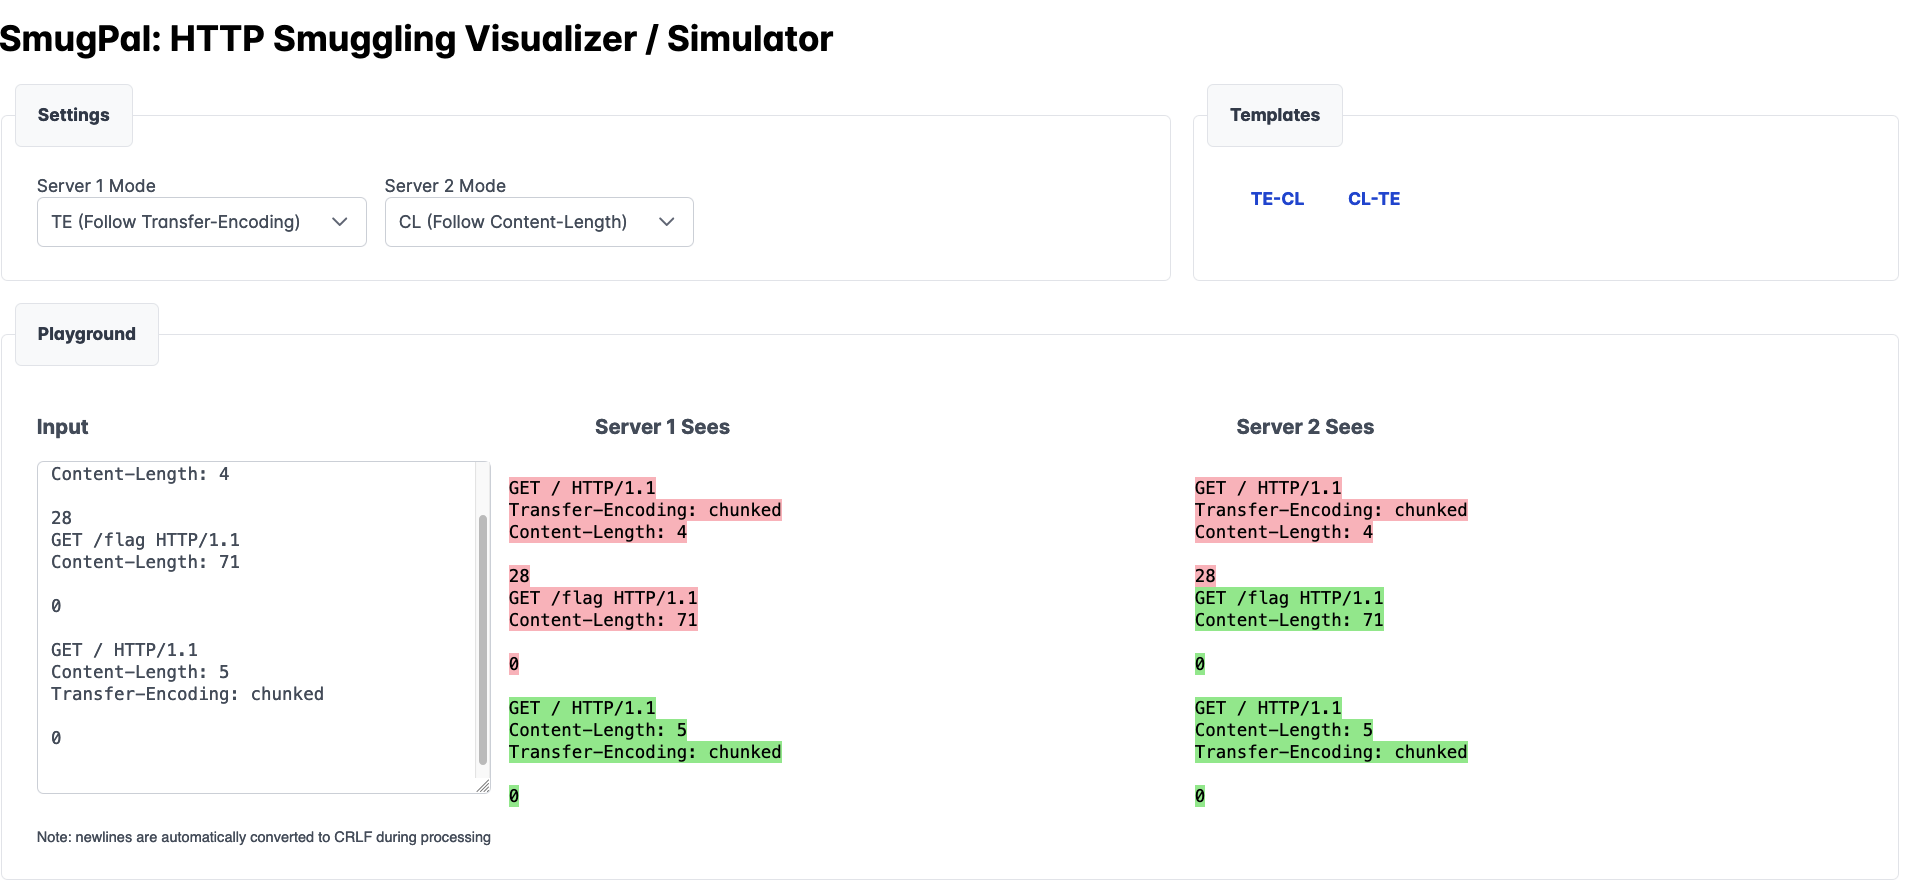
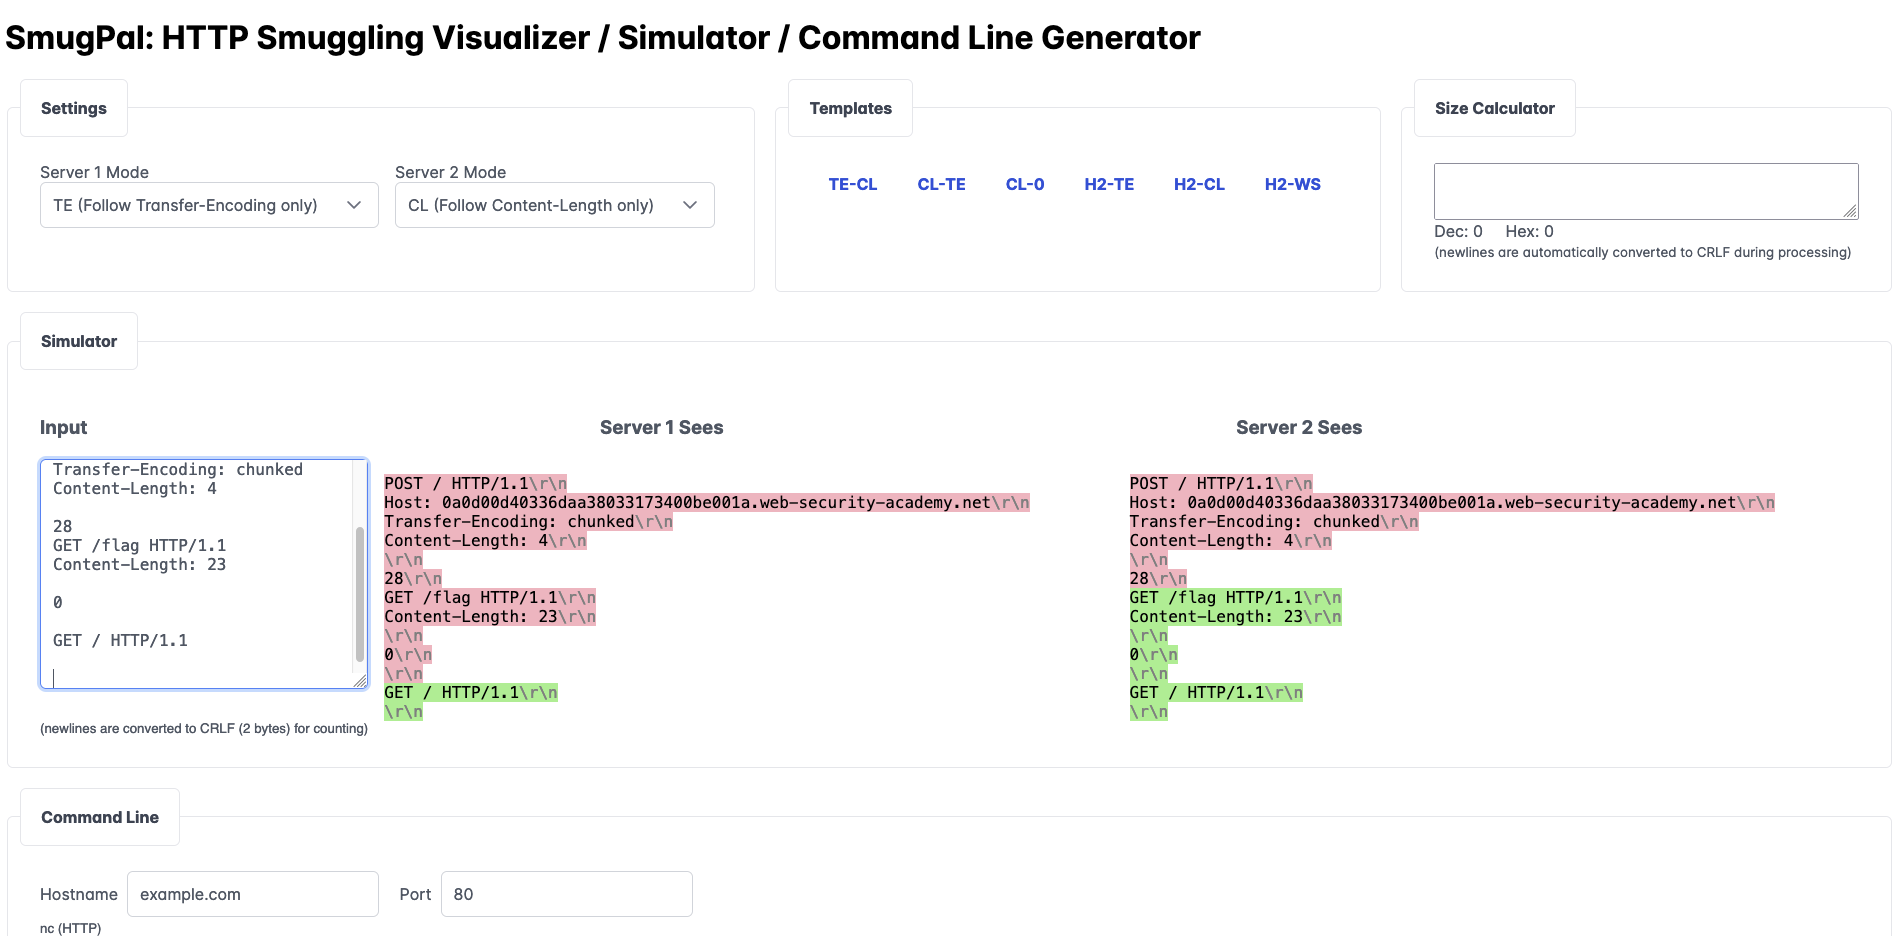
update readme and screenshot

diff --git a/README.md b/README.md
@@ -6,6 +6,25 @@ Workbench for developing HTTP Smuggling / Desync exploits interactively and visu
 
 ![](docs/screenshot.png)
 
-## Help Wanted
+## Features
 
-- As you can see the current UI does not look great. PRs welcome to improve the look & feel of the app.
+- real time interactive colorization of request splits
+- command line generator (netcat / socat for HTTPS)
+- HTTP/2 support (ALPN Negotiation)
+- ready to use [TE.CL](https://portswigger.net/web-security/request-smuggling/lab-basic-te-cl) template
+- ready to use [CL.TE](https://portswigger.net/web-security/request-smuggling/lab-basic-cl-te) template
+- ready to use [CL.0](https://portswigger.net/web-security/request-smuggling/browser/cl-0/lab-cl-0-request-smuggling) template
+- ready to use [H2.TE](https://portswigger.net/web-security/request-smuggling/advanced/response-queue-poisoning/lab-request-smuggling-h2-response-queue-poisoning-via-te-request-smuggling) template
+- ready to use [H2.CL](https://portswigger.net/web-security/request-smuggling/advanced/lab-request-smuggling-h2-cl-request-smuggling) template
+- ready to use "H2.WS Upgrade" template (slide 36 in [this deck](https://www.slideshare.net/neexemil/http-request-smuggling-via-higher-http-versions))
+
+## Help Wanted / TODO
+
+- [ ] Support multiple requests in HTTP2 inputs
+- [ ] As you can see the current UI does not look great. PRs welcome to improve the look & feel of the app.
+
+## Note about HTTP/2 without HTTPS
+
+The current payload template assumes HTTPS when used with HTTP/2. This is because as of writing, apparently [mitmproxy does not support h2c](https://github.com/mitmproxy/mitmproxy/issues/3362). When I tried with Burp I got similar results so I assume it is also the same case.
+
+If you want to use it without HTTPS, simply comment out the line that says `ctx.wrap_socket` in the script.
